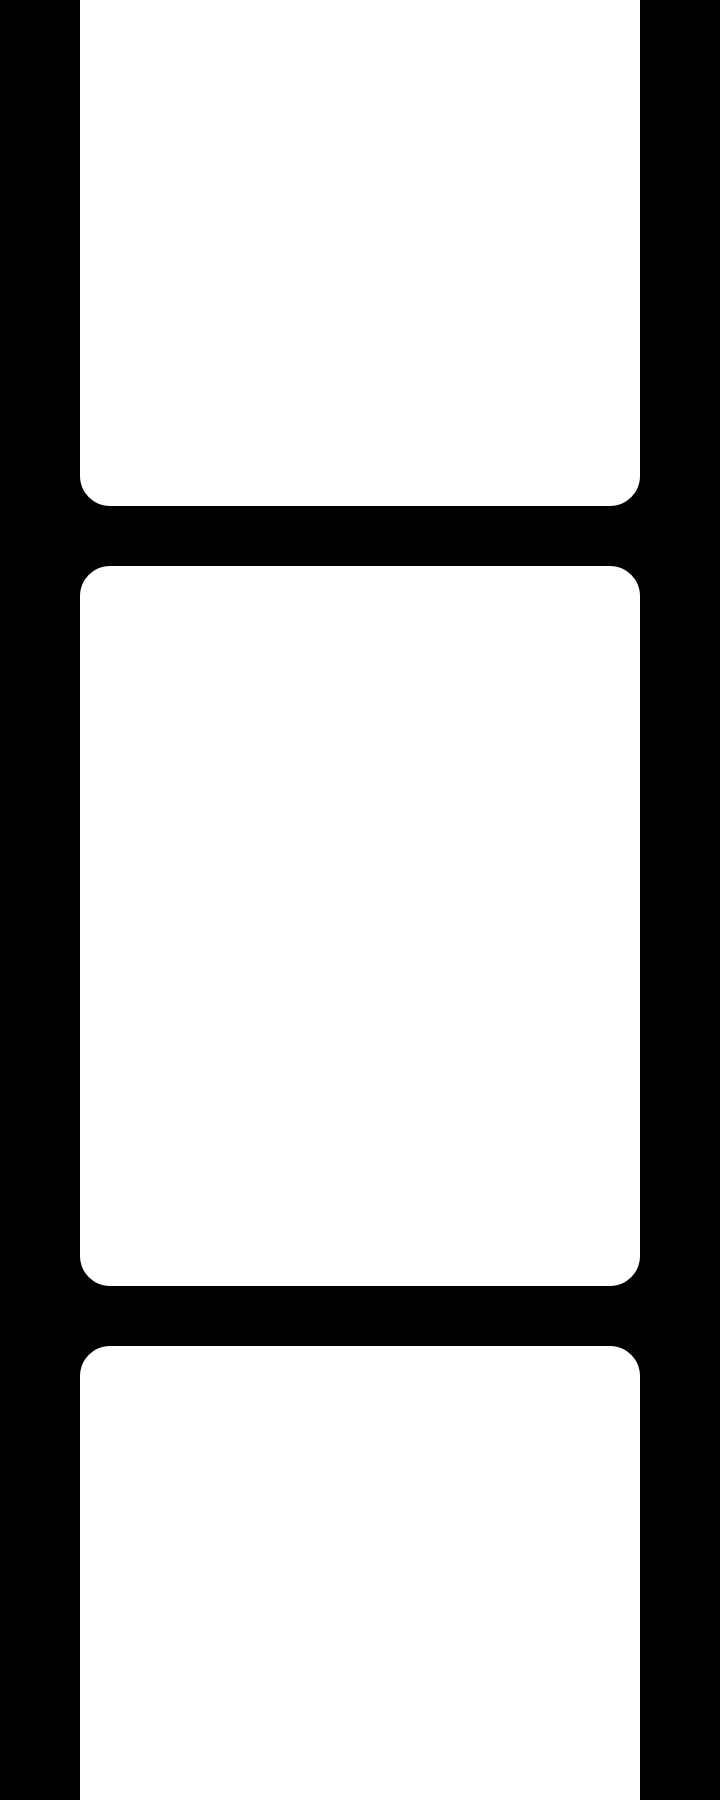
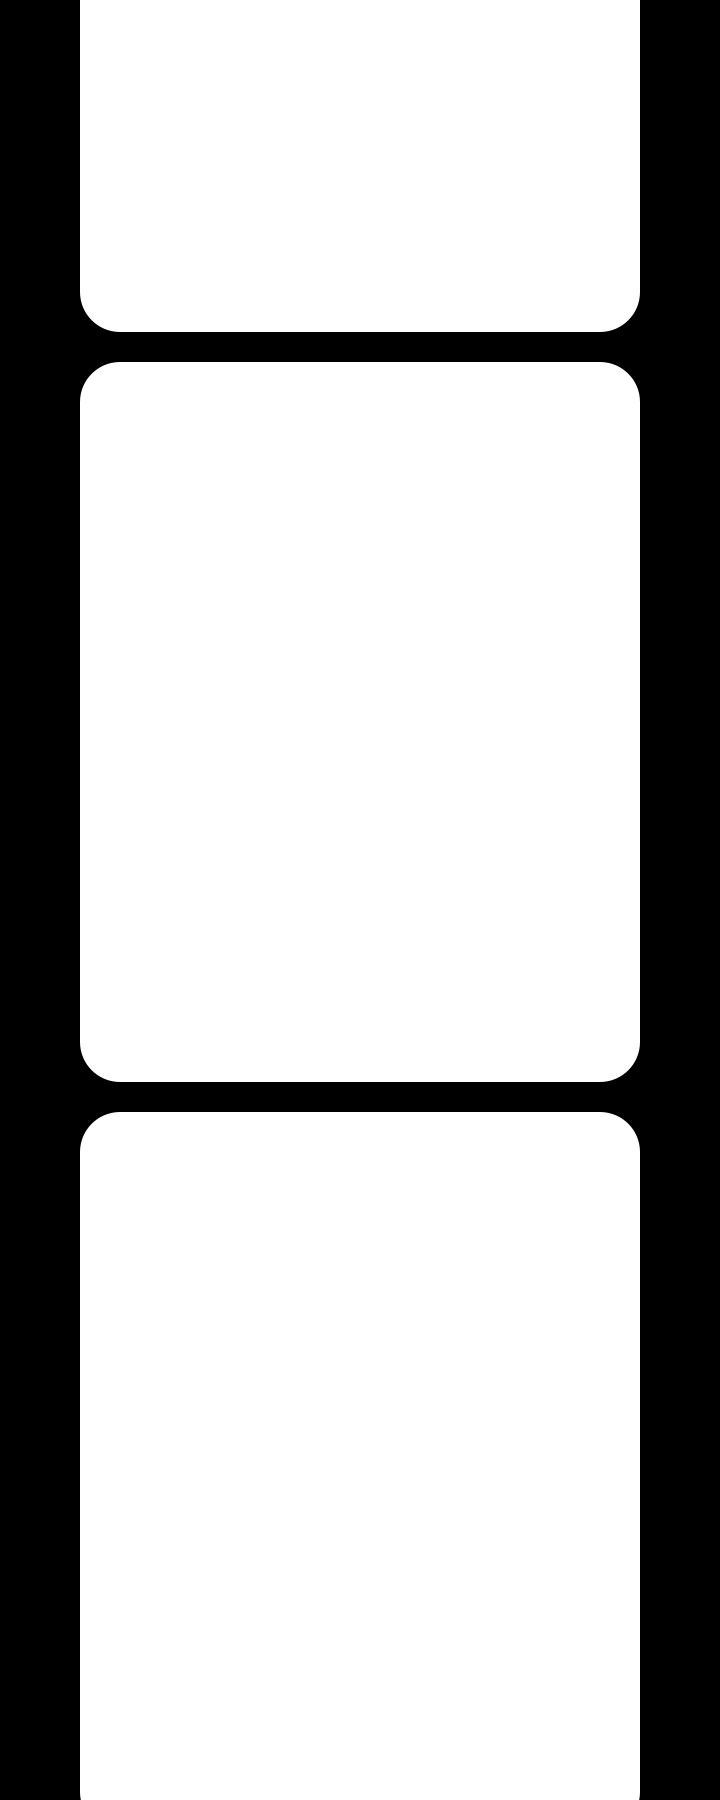
12

diff --git a/sketch.js b/sketch.js
@@ -18,7 +18,7 @@ let bx4;
 let by4;
 
 function preload() {
-  img2 = loadImage('outline_4.png');
+  img2 = loadImage('outline_3.png');
   for (var i=0; i<65; i++) {
     img[i] = loadImage("img"+i+".jpg");
   }
